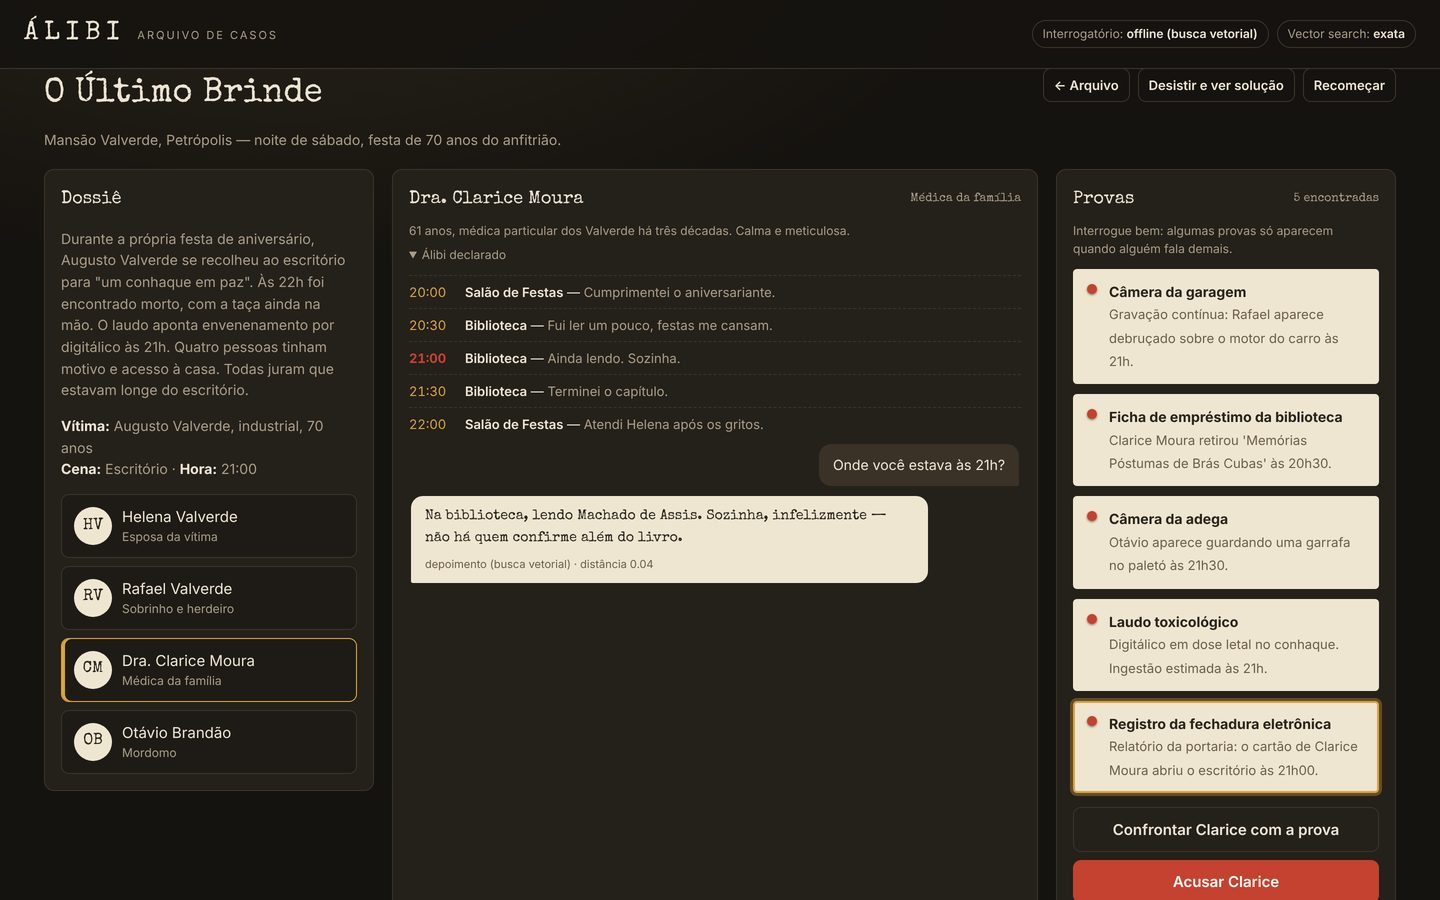
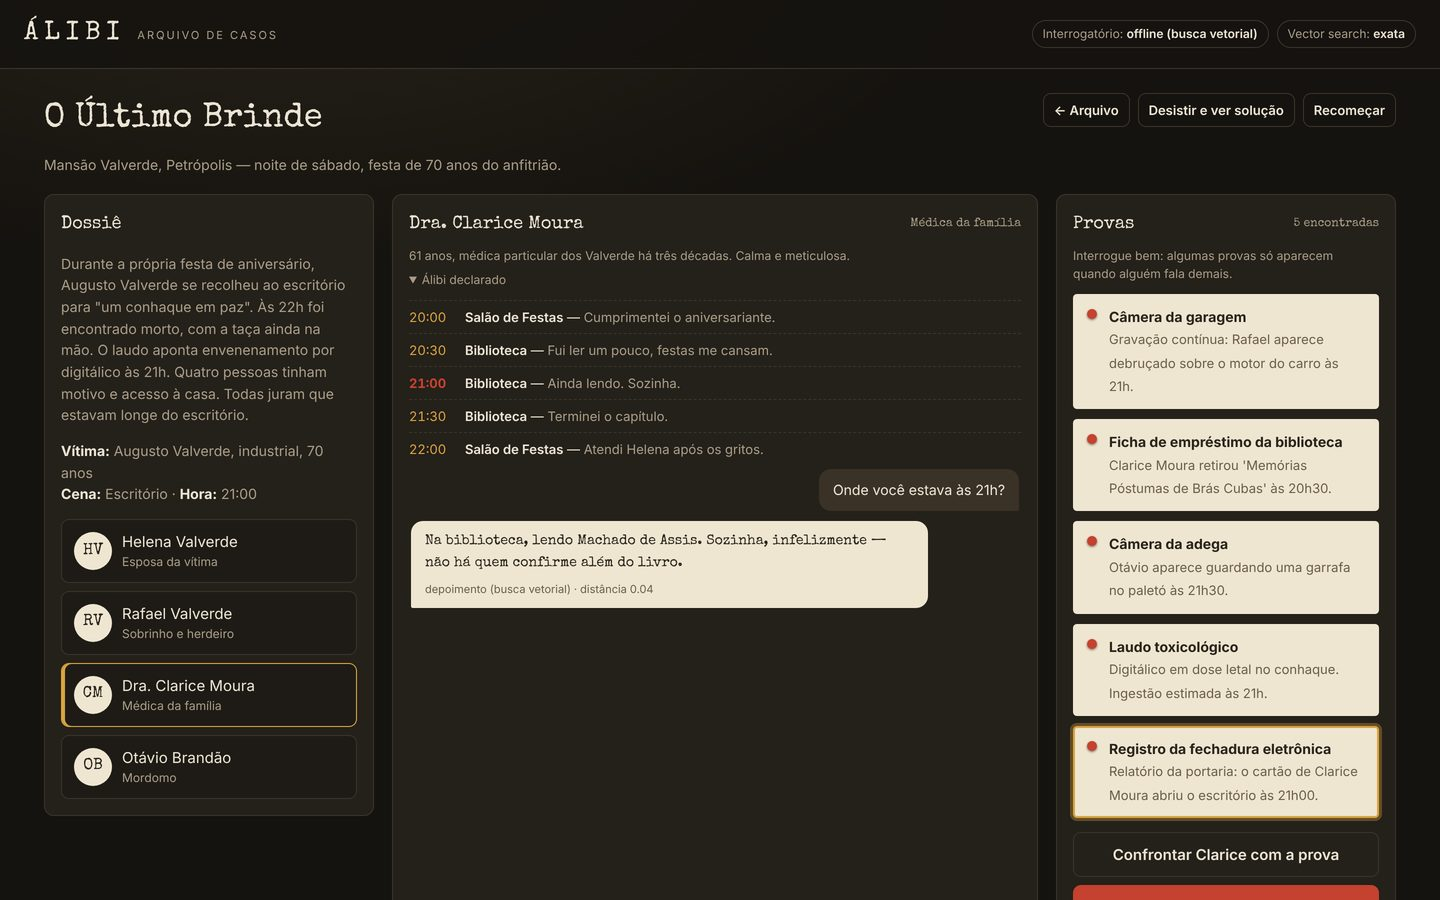
Blog: Álibi front end is now React, refresh screenshots
Claude-Session: https://claude.ai/code/session_011Pkoidr9k2q2DdrgLi6tQe

diff --git a/blog/posts/alibi-detective-game-dotnet-11.html b/blog/posts/alibi-detective-game-dotnet-11.html
@@ -65,7 +65,7 @@
         <img src="../../assets/img/blog/alibi-interrogatorio.jpg" width="1440" height="900" loading="lazy" style="width:100%;height:auto;border-radius:8px;border:1px solid rgba(127,127,127,.25)" alt="Interrogation screen: suspect list, declared alibi, chat and evidence">
         <figcaption style="font-size:.9em;opacity:.75;margin-top:.5rem" data-pt="Interrogando uma suspeita. À direita, as provas encontradas até agora.">Questioning a suspect. The evidence collected so far is on the right.</figcaption>
       </figure>
-      <p data-pt="Por baixo é uma API ASP.NET Core em .NET 11, com EF Core 11 e SQL Server 2025, e um front-end em JavaScript puro servido pela própria API. Para testar, basta clonar o repositório e rodar &lt;code&gt;docker compose up&lt;/code&gt;. Tudo sobe com os três casos carregados, e não precisa de nenhuma chave de API.">Under the hood it is an ASP.NET Core API on .NET 11, EF Core 11 and SQL Server 2025, with a plain JavaScript front end served by the API itself. To try it, clone the repository and run <code>docker compose up</code>. Everything comes up with the three cases loaded, and you do not need any API key.</p>
+      <p data-pt="Por baixo é uma API ASP.NET Core em .NET 11, com EF Core 11 e SQL Server 2025. O front-end é React 19 com TypeScript e Vite. Ele é compilado numa etapa Node do mesmo Dockerfile e servido pela própria API, então não tem nenhum container a mais. Para testar, basta clonar o repositório e rodar &lt;code&gt;docker compose up&lt;/code&gt;. Tudo sobe com os três casos carregados, e não precisa de nenhuma chave de API. Para mexer na interface, &lt;code&gt;npm run dev&lt;/code&gt; dentro de &lt;code&gt;src/Alibi.Web&lt;/code&gt; sobe o Vite e encaminha o &lt;code&gt;/api&lt;/code&gt; para a API.">Under the hood it is an ASP.NET Core API on .NET 11, EF Core 11 and SQL Server 2025. The front end is React 19 with TypeScript and Vite. It is built in a Node stage of the same Dockerfile and served by the API itself, so there is no extra container. To try it, clone the repository and run <code>docker compose up</code>. Everything comes up with the three cases loaded, and you do not need any API key. To work on the UI, <code>npm run dev</code> inside <code>src/Alibi.Web</code> starts Vite and forwards <code>/api</code> to the API.</p>
 
       <h2 data-pt="Union types no resultado da acusação">Union types for the accusation result</h2>
       <p data-pt="Uma acusação pode terminar de quatro jeitos: você resolveu, o álibi se sustenta, você achou uma contradição ou ainda falta prova. Em versões antigas do C# eu usaria um enum com alguns campos anuláveis e torceria para não esquecer nenhum caso. Com o C# 15 eu só declarei os resultados possíveis:">An accusation can end in four ways: you solved it, the alibi holds, you found a contradiction, or there is not enough evidence yet. In older C# I would use an enum with a few nullable fields and hope I did not forget a case. With C# 15 I just declared the possible results:</p>
